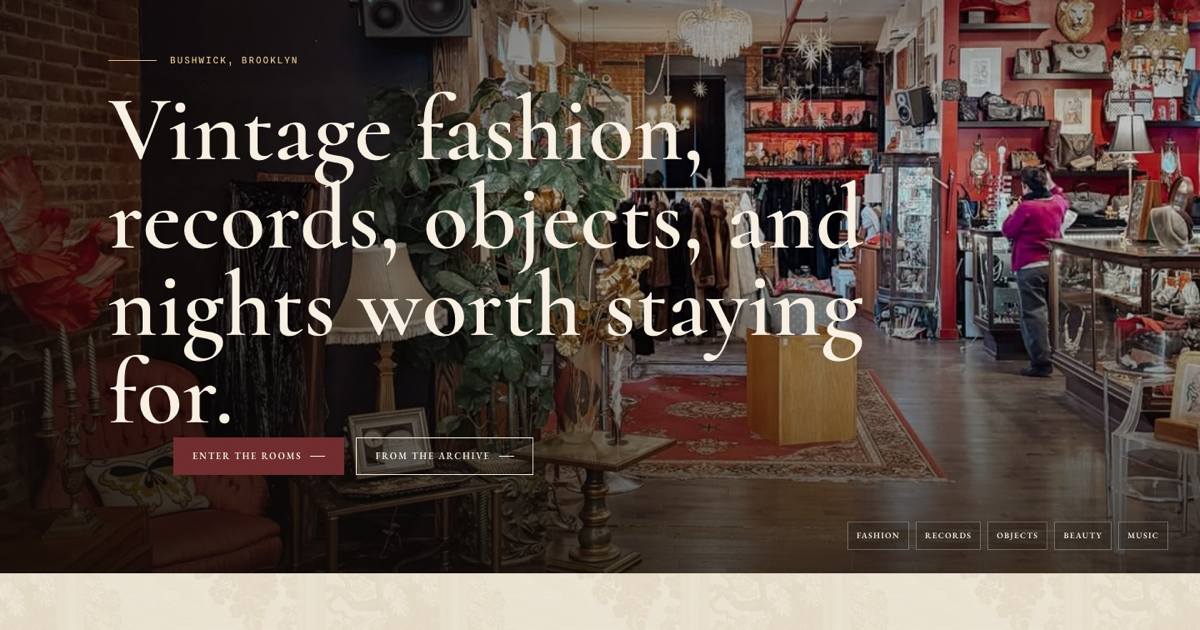
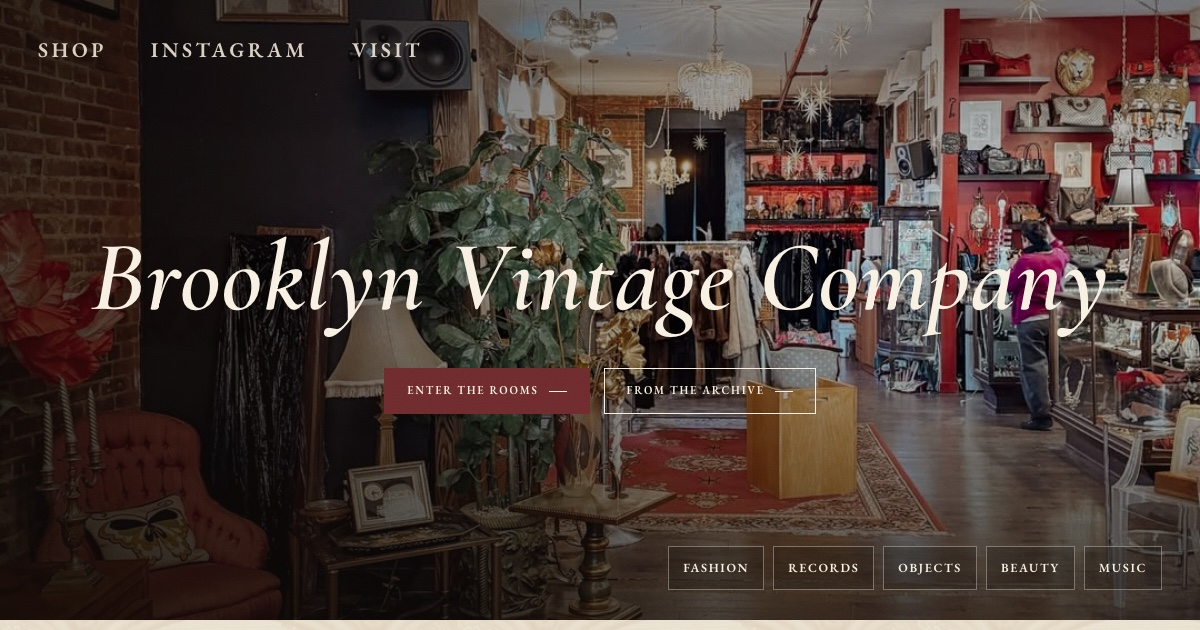
Remove second corrupt exfoliator slide; refresh og-cover social preview to current hero

diff --git a/index.html b/index.html
@@ -371,13 +371,12 @@
         <div class="bslide on"><img src="images/adoris-hero-01-stoop-pink-lipgloss.jpg" width="560" height="700" loading="lazy" decoding="async" alt="ADORIS pink lip gloss on a Brooklyn brownstone stoop"></div>
         <div class="bslide"><img src="images/adoris-hero-02-skyline-sunset-lipgloss.jpg" width="560" height="700" loading="lazy" decoding="async" alt="ADORIS lip gloss against the Manhattan skyline at sunset"></div>
         <div class="bslide"><img src="images/adoris-hero-03-cobblestone-burgundy-lipgloss.jpg" width="560" height="700" loading="lazy" decoding="async" alt="ADORIS burgundy lip gloss on a cobblestone street"></div>
-        <div class="bslide"><img src="images/adoris-hero-05-grandcentral-exfoliator-tube.jpg" width="560" height="700" loading="lazy" decoding="async" alt="ADORIS exfoliator in Grand Central Terminal"></div>
         <div class="bslide"><img src="images/adoris-hero-06-subway-serum.jpg" width="560" height="700" loading="lazy" decoding="async" alt="ADORIS serum on a subway platform"></div>
         <div class="bslide"><img src="images/adoris-hero-07-timessquare-setting-powder.jpg" width="560" height="700" loading="lazy" decoding="async" alt="ADORIS setting powder in Times Square at night"></div>
         <div class="bslide"><img src="images/adoris-hero-08-brooklynbridge-serum.jpg" width="560" height="700" loading="lazy" decoding="async" alt="ADORIS treatment serum at the Brooklyn Bridge"></div>
         <button class="beauty-nav prev" type="button" aria-label="Previous product"><svg viewBox="0 0 24 24" fill="none" stroke="currentColor" stroke-width="1.6" stroke-linecap="round" stroke-linejoin="round" aria-hidden="true"><path d="M15 5l-7 7 7 7"/></svg></button>
         <button class="beauty-nav next" type="button" aria-label="Next product"><svg viewBox="0 0 24 24" fill="none" stroke="currentColor" stroke-width="1.6" stroke-linecap="round" stroke-linejoin="round" aria-hidden="true"><path d="M9 5l7 7-7 7"/></svg></button>
-        <div class="beauty-dots" aria-hidden="true"><span class="on"></span><span></span><span></span><span></span><span></span><span></span><span></span></div>
+        <div class="beauty-dots" aria-hidden="true"><span class="on"></span><span></span><span></span><span></span><span></span><span></span></div>
       </div>
     </div>
   </section>